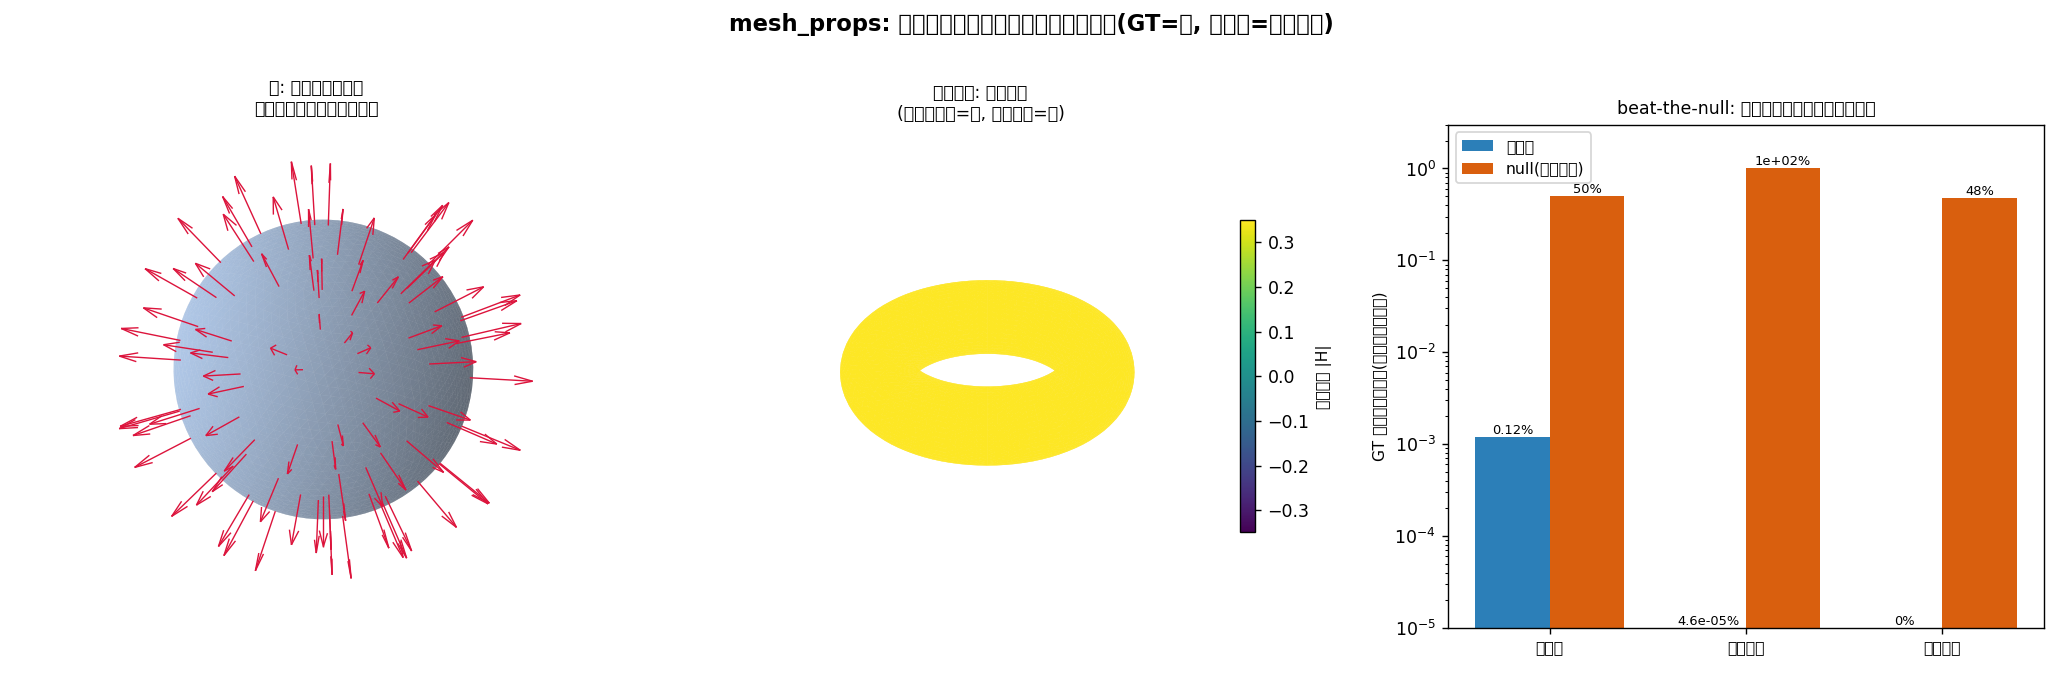
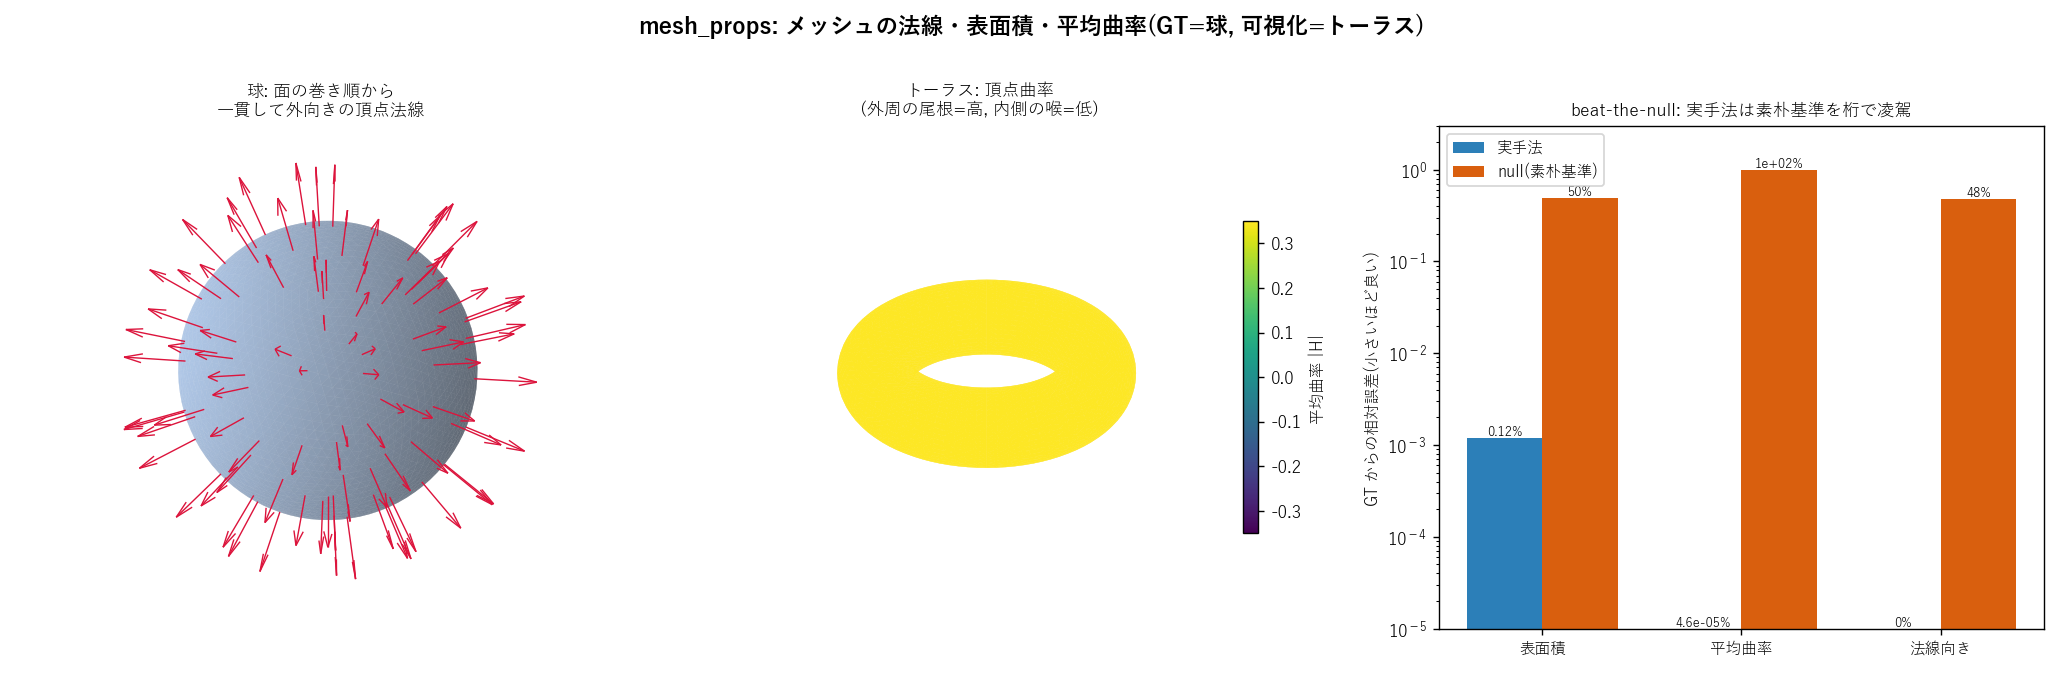
auto: fit_primitives_ext.py 編集前 (2026-08-28 12:54)

diff --git a/examples_3d/mesh_props.py b/examples_3d/mesh_props.py
@@ -139,6 +139,22 @@ def _unit(v: np.ndarray) -> np.ndarray:
 # ═══════════════════════════════════════════════════════════════════════════
 # デモ描画(matplotlib があれば PNG を保存、無ければ静かにスキップ)
 # ═══════════════════════════════════════════════════════════════════════════
+def _use_jp_font(fm, plt) -> bool:
+    """インストール済みの日本語フォントを rcParams に設定。見つかれば True。
+
+    見つからなければ False を返し、呼び出し側は英語ラベルへ退避する(tofu 回避)。
+    """
+    candidates = ["Yu Gothic", "Meiryo", "MS Gothic", "Noto Sans CJK JP",
+                  "Noto Sans JP", "BIZ UDGothic", "Yu Mincho", "MS Mincho"]
+    available = {f.name for f in fm.fontManager.ttflist}
+    for name in candidates:
+        if name in available:
+            plt.rcParams["font.family"] = name
+            plt.rcParams["axes.unicode_minus"] = False   # マイナス記号の tofu 回避
+            return True
+    return False
+
+
 def render_gallery(sphere, sph_vn, torus, tor_curv, bars, out_path: Path) -> bool:
     """球(法線矢印)+ トーラス(曲率カラーマップ)+ 誤差棒グラフを 1 枚に描く。成功で True。"""
     try:
